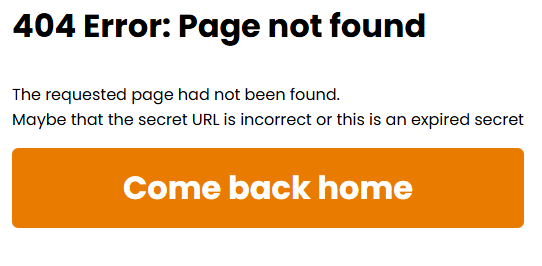
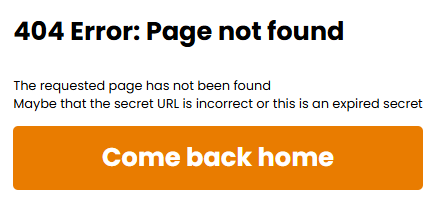
updated readme

diff --git a/front_env/src/pages/ErrorPage.js b/front_env/src/pages/ErrorPage.js
@@ -7,7 +7,7 @@ function ErrorPage() {
         <div className="ErrorPage">
             <div className="Content">
                 <h1>404 Error: Page not found</h1>
-                <p>The requested page had not been found.</p>
+                <p>The requested page has not been found</p>
                 <p>Maybe that the secret URL is incorrect or this is an expired secret</p>
                 <button onClick={() => navigate("/")} className="Main">Come back home</button>
             </div >

diff --git a/README.md b/README.md
@@ -1,9 +1,9 @@
 # OneTimeShare
-The role of this web application is to allow two users two share secrets securely and easily, over internet.
+The role of this web application is to allow two users sharing secrets securely and easily, over internet.
 
 ## The problem
 
-Employees often need to share secrets within a company. However if they do not have a access to a shared password manager solution. So it can be hard for them to share confidential information securely. This often leads to password, API key or other secrets being shared on Teams, through mail etc. This is a <b>security issue</b> since anyone accessing your Teams or mail account get to access these information.
+Employees often need to share secrets within a company. However if they do not have a access to a shared password manager solution it can be hard for them to share confidential information securely. This often leads to password, API key or other secrets being shared on Teams, through mail etc. This is a <b>security issue</b> since anyone accessing your Teams or mail account get to access these information.
 
 Same problem occurs when dealing with external companies when you need to share a secret with them, whether it is to share a password, an IPSEC key, an x509 certficate etc.
 
@@ -30,11 +30,11 @@ One simple solution to this problem is <b>OneTimeShare</b>. It allows you to cre
 
 <img src="imagesMd/image-3.png" alt="Secret read" width="50%"><br/><br/>
 
-<b>Step 5:</b> The secret will be automatically removed after being read (if once setting has been set), otherwise it will be removed when arrived at the expiration date.
+<b>Step 5:</b> The secret will automatically be removed after being read (if once setting has been set), otherwise it will be removed when arrived at the expiration date.
    
 <img src="imagesMd/image-4.png" alt="Secret expired" width="50%">
 
-## Technologies
+## Technologies used
 <div style="display: flex;flex-direction: row; align-items: center">
 <img style="margin-right: 1em;" src="imagesMd/image-5.png" alt="React" width="10%">
 <img style="margin-right: 1em;" src="imagesMd/image-6.png" alt="Django" width="15%">
